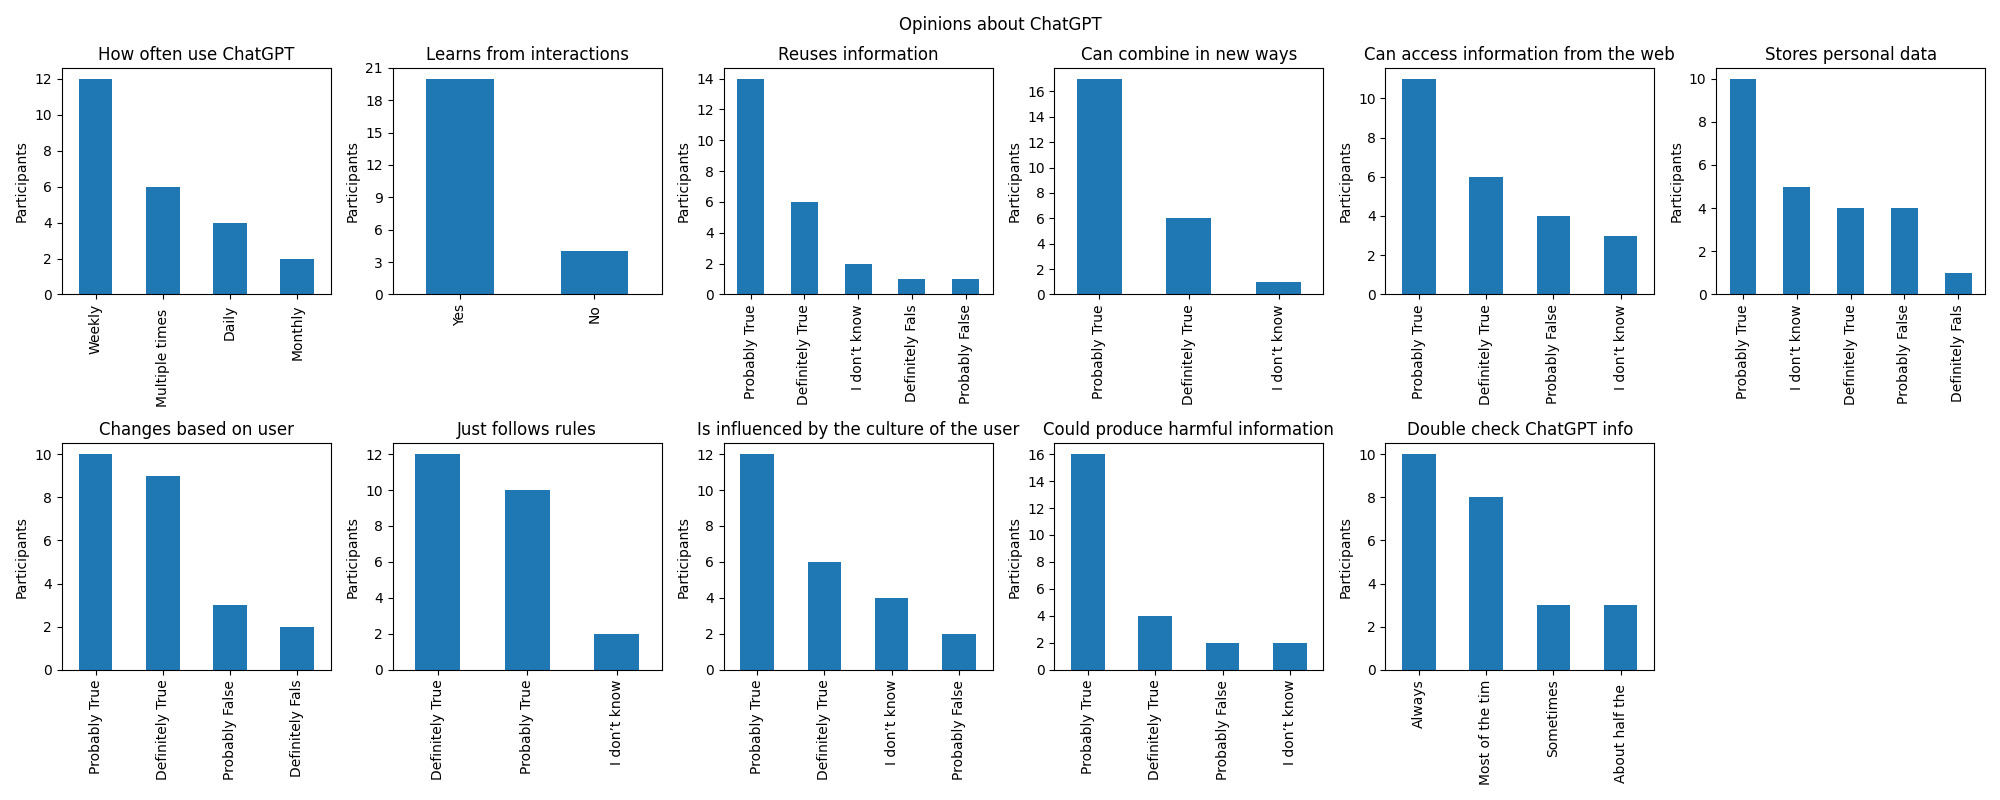
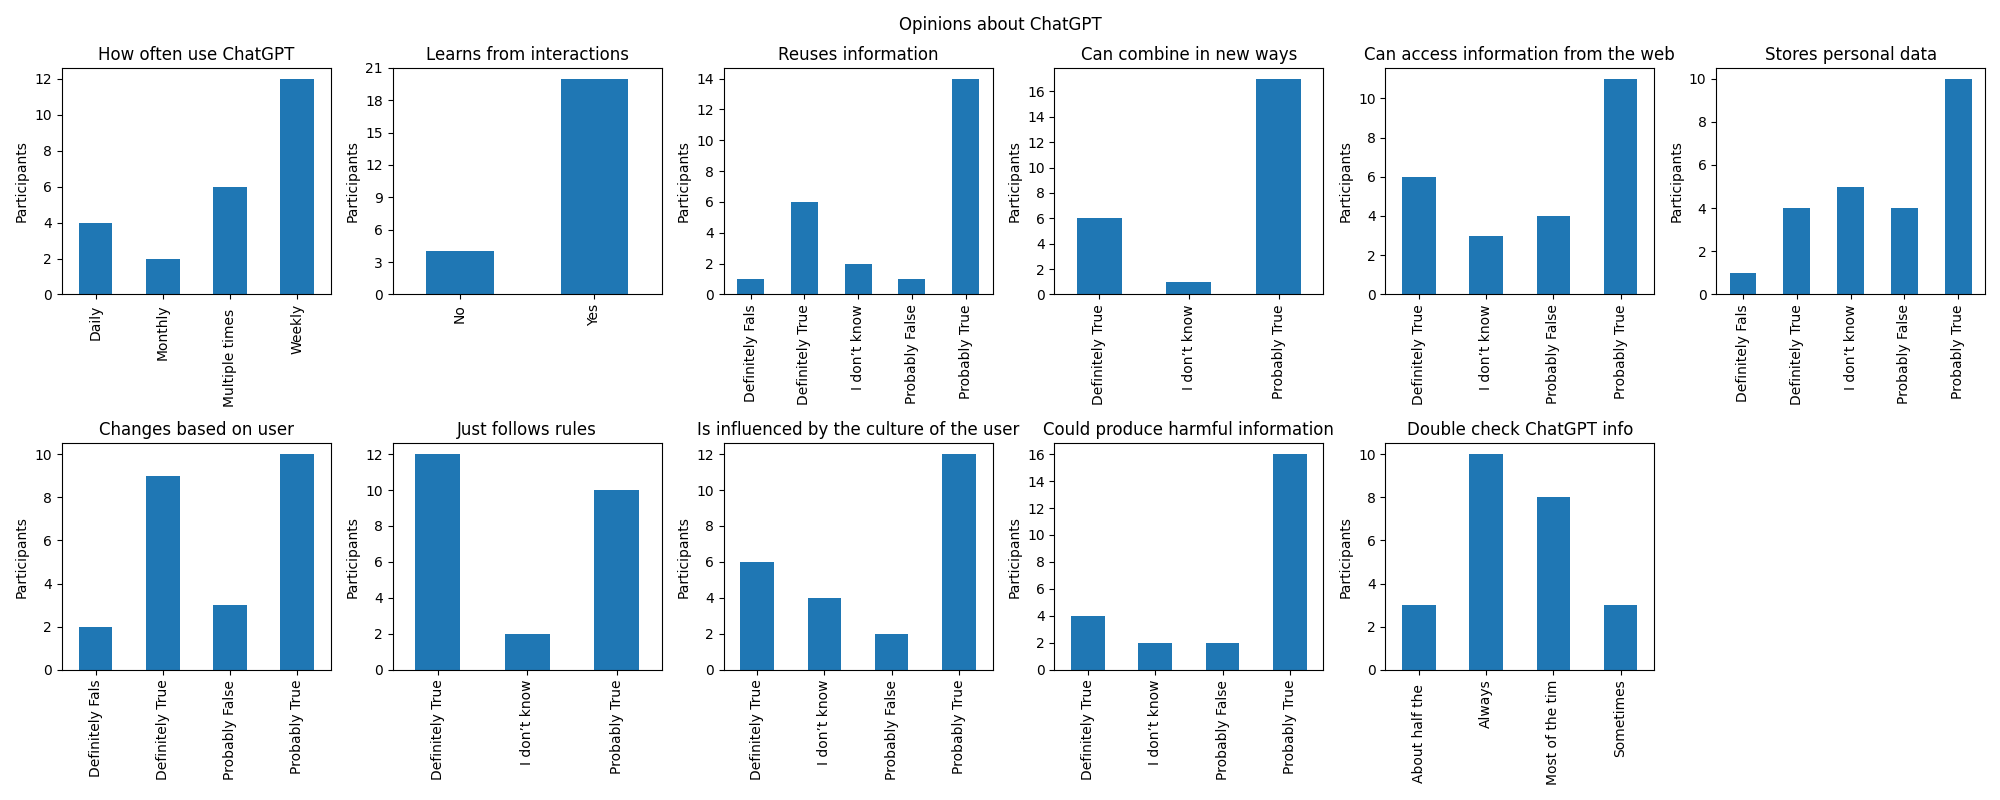
Improve visualizations

diff --git a/pipeline_full.py b/pipeline_full.py
@@ -97,8 +97,8 @@ def clean_multiple_choice_text(series: pd.Series) -> pd.Series:
     )
 
 def bin_1_to_100(series: pd.Series):
-    bins = list(range(0, 101, 20))
-    labels = [f"{i+1}-{i+20}" for i in range(0, 100, 20)]
+    bins = list(range(0, 101, 5))
+    labels = [f"{i+1}-{i+5}" for i in range(0, 100, 5)]
     return pd.cut(
         series, 
         bins=bins, 
@@ -125,6 +125,7 @@ def plot_multiple_choice_distribution(
     counts = data.value_counts()
     counts = counts[counts >= min_count]
 
+    counts = counts.sort_index()
     counts.plot(kind="bar", ax=ax)
     ax.set_title(title)
     ax.set_xlabel("")
@@ -294,10 +295,12 @@ DEMOGRAPHIC_QUESTIONS = {
 }
 mask = (df_clean["q7"] == "Other:") & (df_clean["q7_8_text"].notna())
 df_clean.loc[mask, "q7"] = df_clean.loc[mask, "q7_8_text"]
+df_clean["q1"] = 2025 - df_clean["q1"]
 create_bar_plot_screen(
     df_clean,
     DEMOGRAPHIC_QUESTIONS,
     title="Demographic Information",
+    bin_numeric_list=("q1",)
 )
 
 GENERAL_AI_OPEN_QUESTIONS = {
